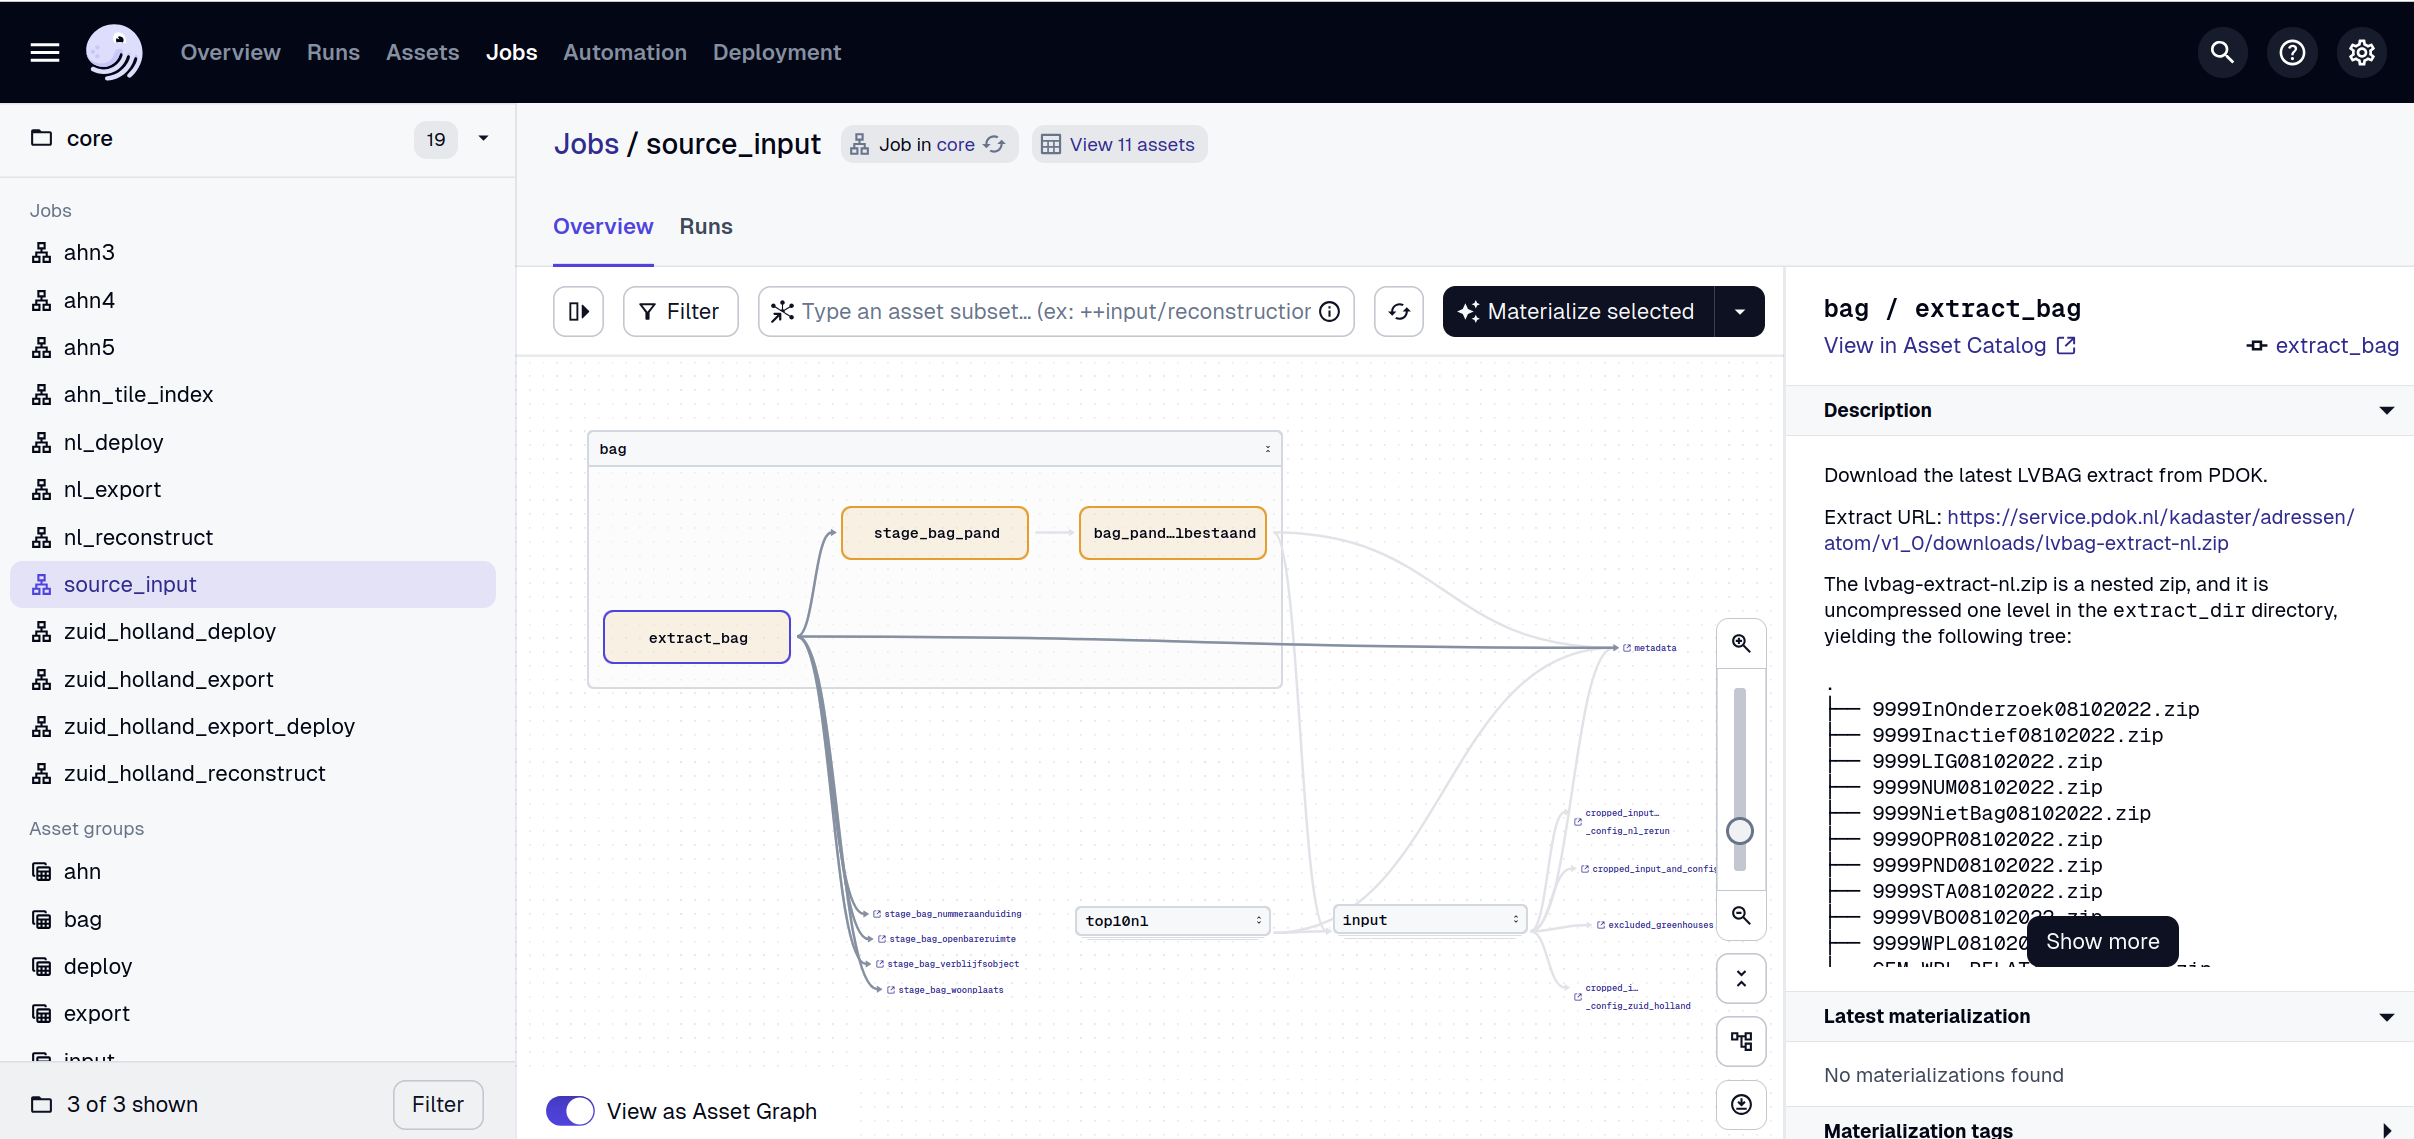
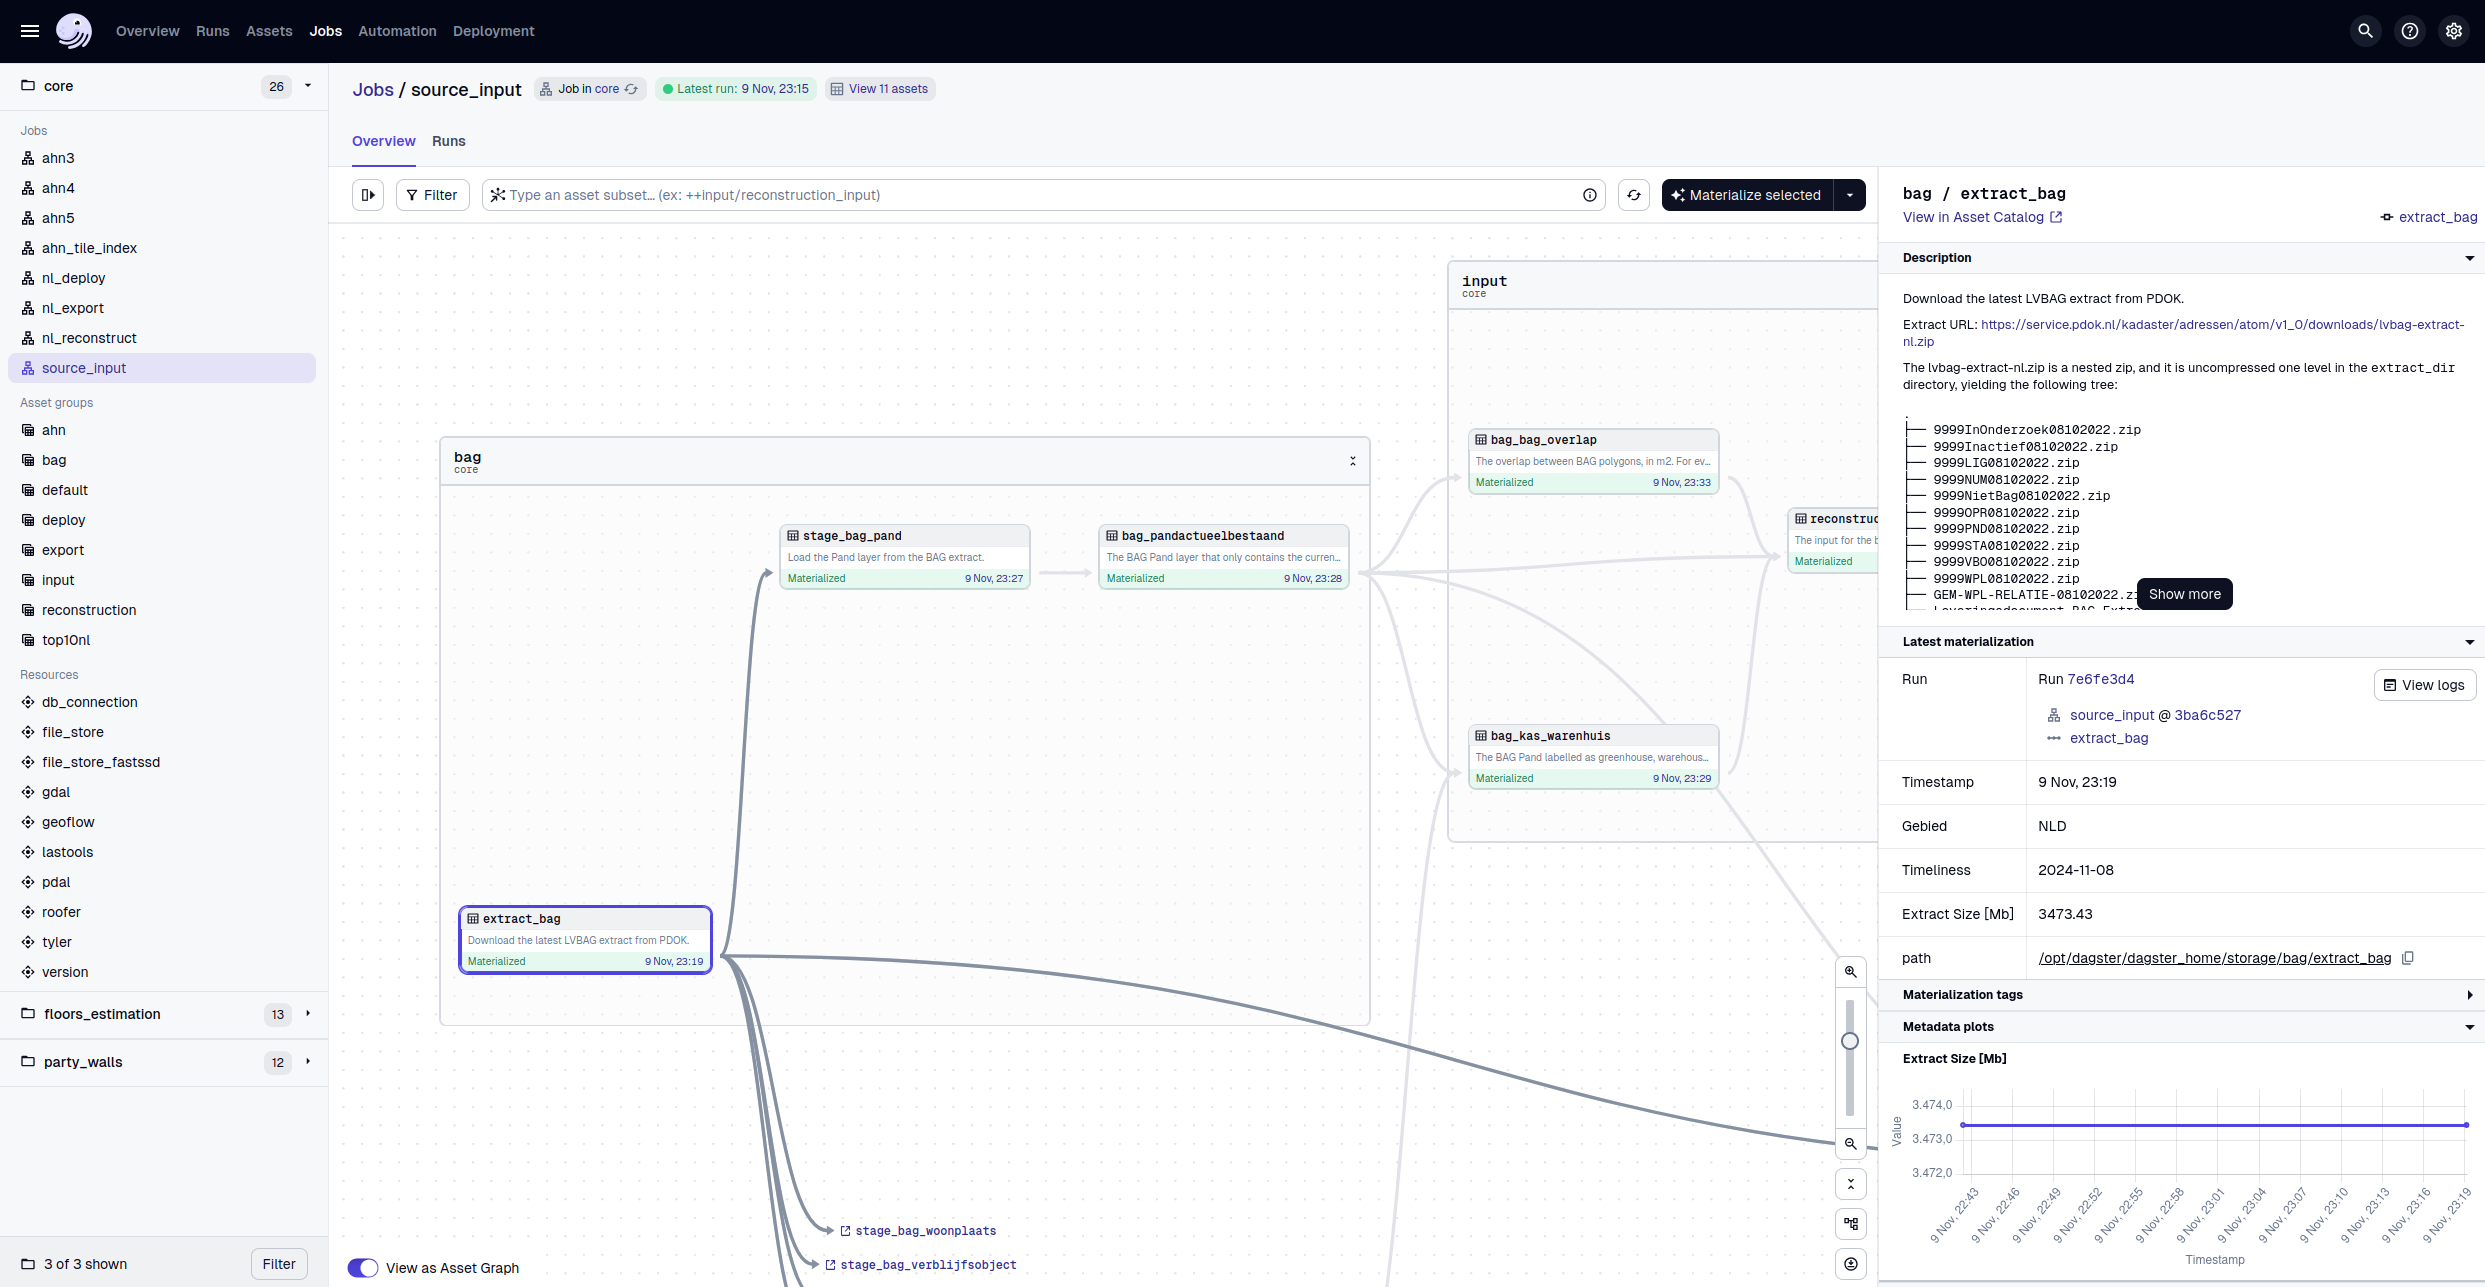
Add ahn_tile_200m job

diff --git a/packages/core/src/bag3d/core/jobs.py b/packages/core/src/bag3d/core/jobs.py
@@ -42,6 +42,15 @@ job_ahn5 = define_asset_job(
     | AssetSelection.assets(["ahn", "lasindex_ahn5"]),
 )
 
+job_ahn_tiles_200m = define_asset_job(
+    name="ahn_tiles_200m",
+    description="Tile the AHN LAZ files into 200m tiles.",
+    selection=AssetSelection.assets(["ahn", "regular_grid_200m"])
+    | AssetSelection.assets(["ahn", "laz_tiles_ahn3_200m"])
+    | AssetSelection.assets(["ahn", "laz_tiles_ahn4_200m"])
+    | AssetSelection.assets(["ahn", "laz_tiles_ahn5_200m"])
+)
+
 job_source_input = define_asset_job(
     name="source_input",
     description="Update the source data sets and prepare the input for the reconstruction.",

diff --git a/packages/core/src/bag3d/core/code_location.py b/packages/core/src/bag3d/core/code_location.py
@@ -14,6 +14,7 @@ from bag3d.core.jobs import (
     job_ahn3,
     job_ahn4,
     job_ahn5,
+    job_ahn_tiles_200m,
     job_zuid_holland_reconstruct,
     job_zuid_holland_export,
     job_zuid_holland_deploy,
@@ -37,6 +38,7 @@ all_jobs = [
     job_ahn3,
     job_ahn4,
     job_ahn5,
+    job_ahn_tiles_200m,
     job_zuid_holland_reconstruct,
     job_zuid_holland_export,
     job_zuid_holland_deploy,
